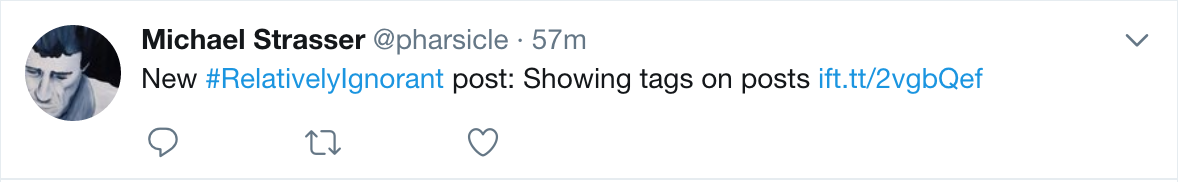
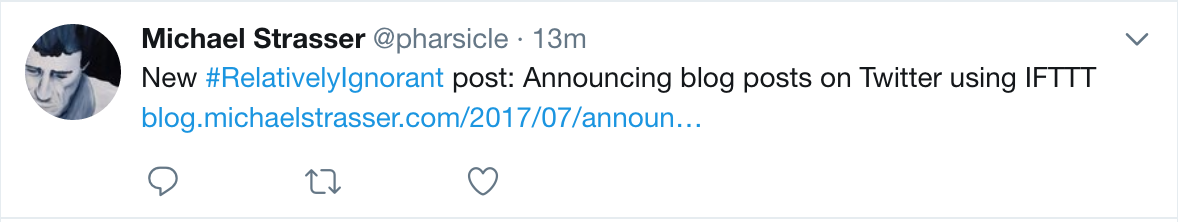
Updated announcement tweet post and image.

diff --git a/_posts/2017-07-19-announcing-blog-posts-on-twitter-using-ifttt.md b/_posts/2017-07-19-announcing-blog-posts-on-twitter-using-ifttt.md
@@ -55,9 +55,9 @@ by default.)
 
 ## Success
 
-An example tweet is:
+**Update:** The tweet for this page is:
 
 ![Example tweet sent by IFTTT]({{ site.baseurl }}/public/images/tweet-pharsicle-ifttt.png)
 
-I have since learnt that [I don’t need to use the IFTTT URL
-shortener](https://michaelsoolee.com/ifttt-links/) and updated my IFTTT settings accordingly.
+By default, IFTTT uses its own link shortener, but I turned that off [as described
+here](https://michaelsoolee.com/ifttt-links/).
